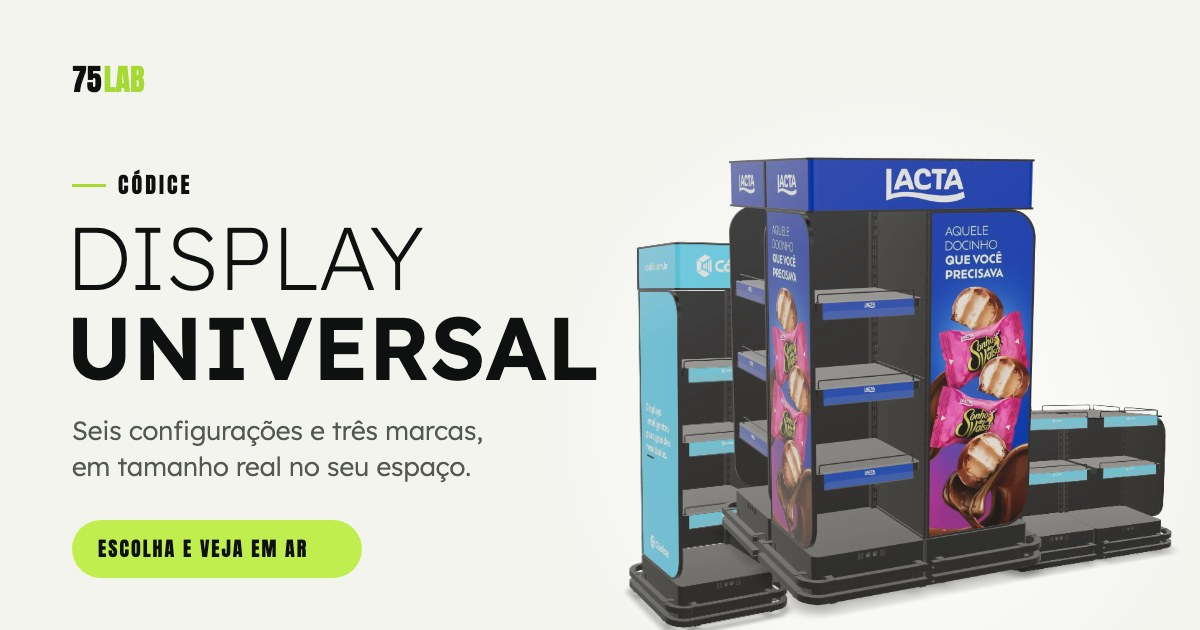
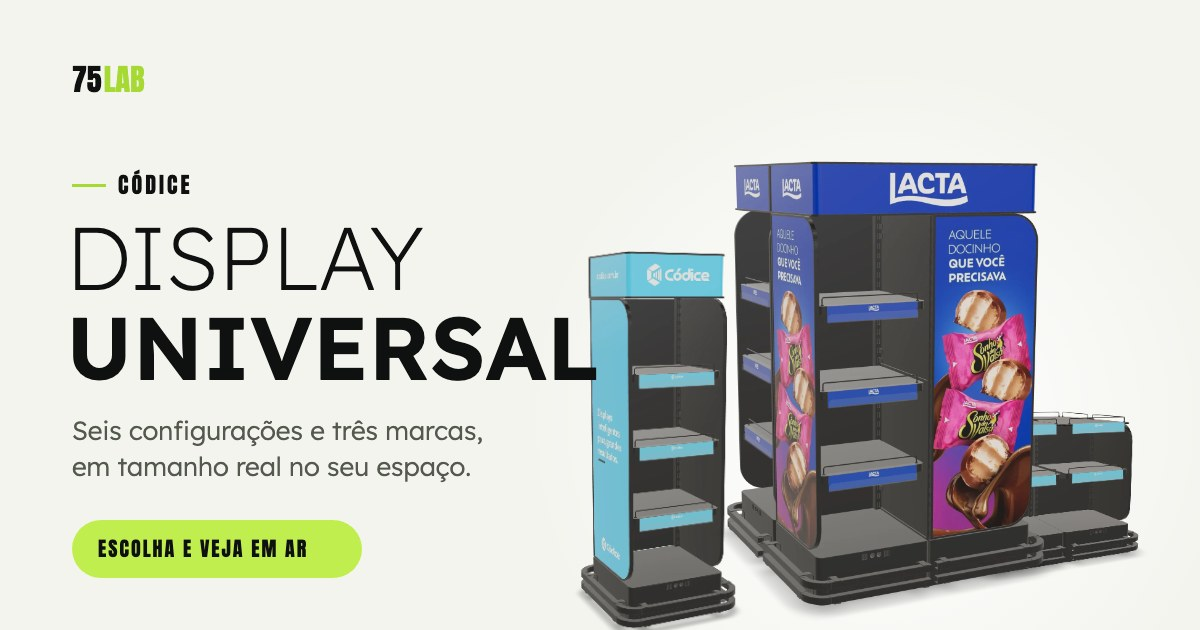
Códice: Display Universal em AR (9 configurações do .lxo do Modo)
Seis arranjos do módulo (único, duplo, ilha de 4, ilha de 2 frentes, ilha baixa
e ilha baixa com aéreo) e três exemplos de marca (Lacta, Bis, Pedigree e Whiskas)
numa página só, com HDR de supermercado. Miniatura própria e nota no README.

Changed region(s): [[0.4625, 0.2413, 0.9867, 1.0]]

diff --git a/README.md b/README.md
@@ -32,6 +32,7 @@ A escala fica travada (`ar-scale="fixed"`): o cliente não consegue aumentar nem
 | `savencia-frame-glorifier-frescatino/` | Savencia, Frame Glorifier Frescatino (ventosas, AR de parede) | 18 × 20 cm |
 | `semp-split-hw/` | SEMP, quinze peças de PDV do lançamento Split HW numa página: sete com 3D do Modo (`ilha`, `portico`, `backdrop`, `cubo`, `poster-cinta`, `berco`, `regua`) e oito montadas da arte 2D (`placa`, `topper`, `orelha`, `tapete`, `aerea`, `adam-lama`, `adam-poster-caixa`, `adam-testeira`) + `embed.html` | de 10 × 47 × 6 cm (régua) a 340 × 306 × 60 cm (pórtico) |
 | `codice-displays/` | Códice, oito displays numa página (`?modelo=essencial`, `sense`, `media`, `ilha`, `painel`, `vitrine`, `categoria`, `multiuso`) | medidas de referência, de 195 × 74 × 52 cm a 202 × 104 × 55 cm |
+| `codice-display-universal/` | Códice, Display Universal (projeto NEO001): seis configurações do mesmo módulo (`?modelo=torre`, `duplo`, `ilha`, `ilha-frentes`, `baixa`, `baixa-aereo`) e três exemplos de marca (`lacta`, `bis`, `pedigree-whiskas`) | de 62 × 65 × 170 cm (módulo único) a 112 × 112 × 170 cm (ilha de 4 módulos) |
 
 > **Códice:** não havia arquivo 3D dos displays. Os modelos foram montados em three.js a partir dos renders
 > do deck comercial, com as texturas desenhadas em canvas (logotipo, painel perfurado, tela do pacote Media).
@@ -39,6 +40,18 @@ A escala fica travada (`ar-scale="fixed"`): o cliente não consegue aumentar nem
 > `codice-displays/<id>.glb` → `tools/usdz.html?slug=codice-displays&file=<id>` + `usdz-compact.py` →
 > `tools/codice/shots.html` (posters) → `tools/codice/og.html` (miniatura; o `capture.html` com oito modelos
 > fica ilegível). As medidas são de referência, não de fabricação.
+
+> **Display Universal da Códice (NEO001):** veio do Modo, nove `.lxo` da pasta AR do Drive do projeto, montados
+> com `tools/modo/auto_lxo.py` (configs em `.work/universal/`, `gen.py` gera os `ar.json`). Escala 0,03532 m por
+> unidade, confirmada pelo boneco `Sandrinha` (1,69 m). Artes: seis PSD de 8533 × 8533 px na pasta `TEXTURAS` do
+> Drive, convertidos com `tools/psd_composto.py` (o do Pedigree tem 1,34 GB). Cada modelo vira dois GLB: o da web
+> com `--no-verso` + `tools/bake/compacta-glb.mjs <ent> <sai> 1 0` (quantiza; a ilha cai de 18 para 8,7 MB) e o do
+> USDZ com verso, pelo `usdz.html`. Miniatura própria em `tools/codice/og-universal.html`.
+> **Pegadinhas:** os arquivos de marca (`LACTA`, `BIS`, `PEDIGREE-WHISKAS`) trazem camadas visíveis de sobras de
+> montagem fora da ilha (uma testeira solta no ar, painéis no chão): `"excluir_camadas": [3, 4, 7, 8]` no config,
+> senão o modelo sai com 157 × 177 × 199 cm em vez de 111 × 112 × 170. As réguas de preço são acrílico
+> (`Transparência`, alfa 0,1) com a arte atrás: no Workbench parecem cinza, mas no model-viewer e no Quick Look
+> saem azuis, como no render do cliente.
 
 > **Material procedural do Blender (madeira do módulo Panasonic):** não existe no glTF, então o export cru
 > sai branco. Para esses casos o `prep.py` aceita `--blend=CENA.blend` e assa a cor direto da cena original
